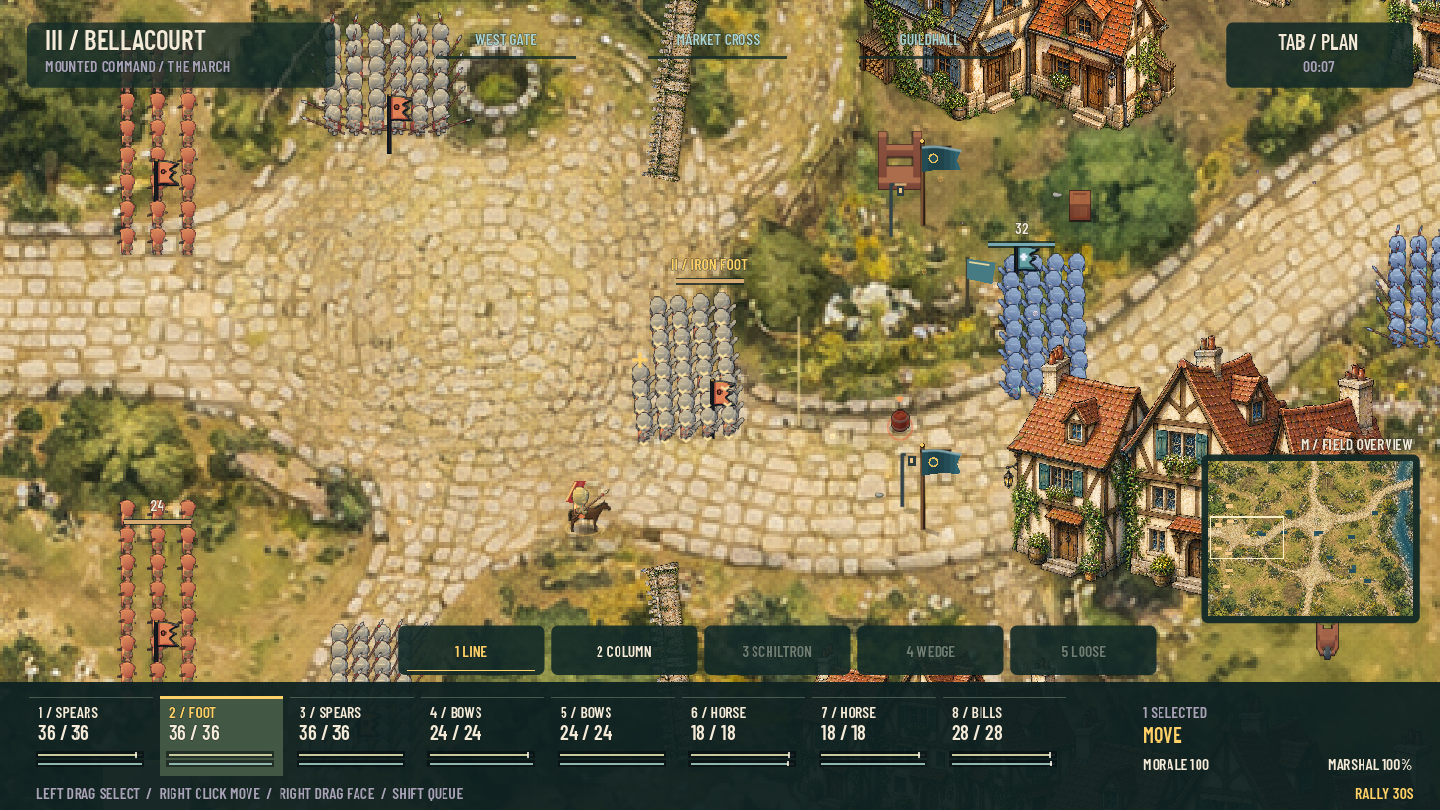
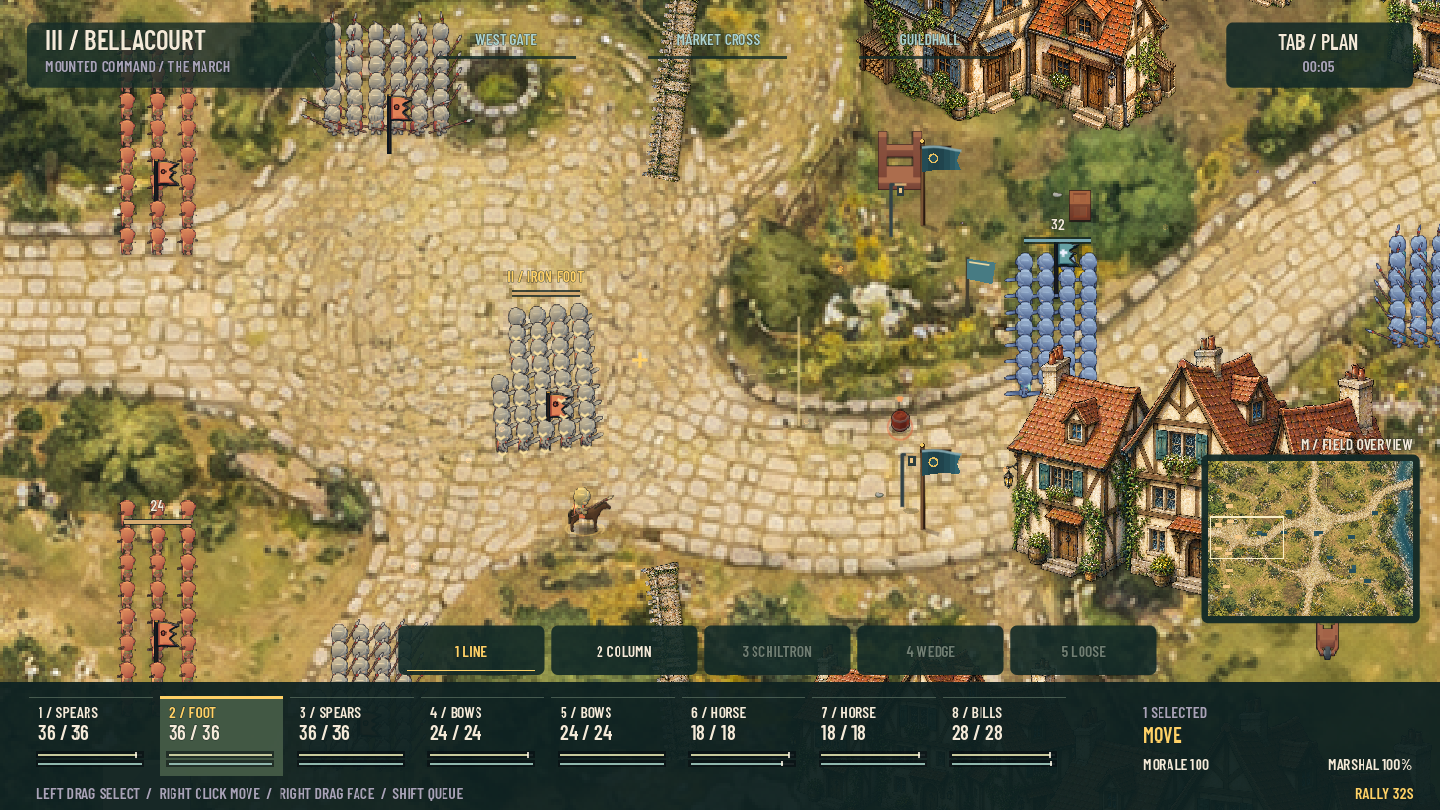
Refine combat yard HUD and refresh final gameplay captures

diff --git a/README.md b/README.md
@@ -6,7 +6,7 @@
 
 This pass improves the live combat loop as well as presentation: two recharging dodge charges, instant parry timing, a stronger counter after a parry or close dodge, faster linked attacks, movement during attacks, narrower aim assist, and melee occlusion against solid scenery. Holding left mouse chains attacks; two lights into right mouse triggers the existing weapon finisher.
 
-The controlled soldier now has live cloth, a crest, warm rim lighting and a foot marker. Ground attack cues distinguish sweeps, thrusts and unblockables. New supply caches restore stamina/spirit and marked oil barrels knock enemies down. Terrain is quieter, Bellacourt has more street props, and command routes follow the actual navigation path. The HUD shows health, stamina, dodge charges and ability readiness; **F7** reduces camera motion.
+The controlled soldier now has live cloth, warm rim lighting and a foot marker. Ground attack cues distinguish sweeps, thrusts and unblockables. New supply caches restore stamina/spirit and marked oil barrels knock enemies down. Terrain is quieter, Bellacourt has more street props, and command routes follow the actual navigation path. The HUD shows health, stamina, dodge charges and ability readiness; **F7** reduces camera motion.
 
 [Design references, exact changes and validation](docs/POLISH_NOTES.md). The existing chapters and documentation below remain available.
 

diff --git a/docs/POLISH_NOTES.md b/docs/POLISH_NOTES.md
@@ -38,7 +38,7 @@ These are findings from the repository, not claims that its original designers m
 ## Art and map changes
 
 - Warm russet/ivory allies and cool teal/steel enemies, a warmer controlled-body palette, steel split toning and a selective rim.
-- A live gold-edged mantle and horsehair crest anchored to the actual rendered body frame, with movement drag. Existing animated KayKit bodies and weapon sheets remain the base art.
+- A live gold-edged mantle anchored to the actual rendered body frame, with movement drag. Existing animated KayKit bodies and weapon sheets remain the base art.
 - Foot marker and directional chevron; nearby hostile ground sectors show sweep/thrust shapes, timing and committed facing. Unblockables also use a cross, not just a colour change.
 - Wider weapon ribbons, gold finishers and mint counters; reduced background soldier hit flashes.
 - An anchored HUD with actual health, stamina, two recharge meters, finisher milestones and skill/guard/kick/flask tiles. Bundled Lucide SVG icons have their upstream license notices.

diff --git a/CREDITS.md b/CREDITS.md
@@ -39,4 +39,4 @@ See `assets/audio/CREDITS.txt`.
 
 - [Lucide](https://lucide.dev/), Lucide Icons and Contributors. ISC license; selected inherited Feather icons also carry the MIT notice. The complete upstream notices are retained in `assets/ui/icons/LICENSE.txt`.
 - Icons are bundled SVGs; `currentColor` strokes were changed to white for Godot import and are tinted at runtime. No remote requests are made by the game.
-- Character mantle, crest, combat cues, courtyard shader, and UI layouts are original project code. Existing KayKit, Quaternius, Kenney, audio, and font credits above continue to apply.
+- Character mantle, combat cues, courtyard shader, and UI layouts are original project code. Existing KayKit, Quaternius, Kenney, audio, and font credits above continue to apply.
